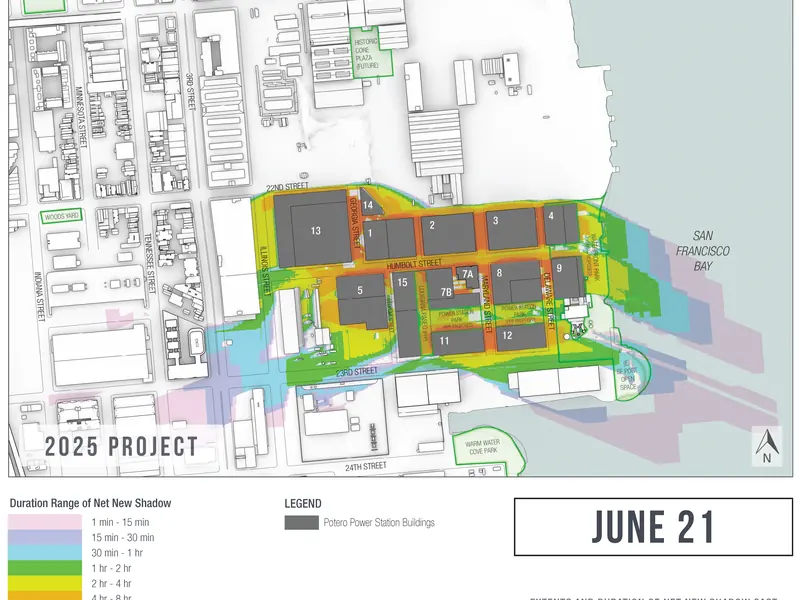
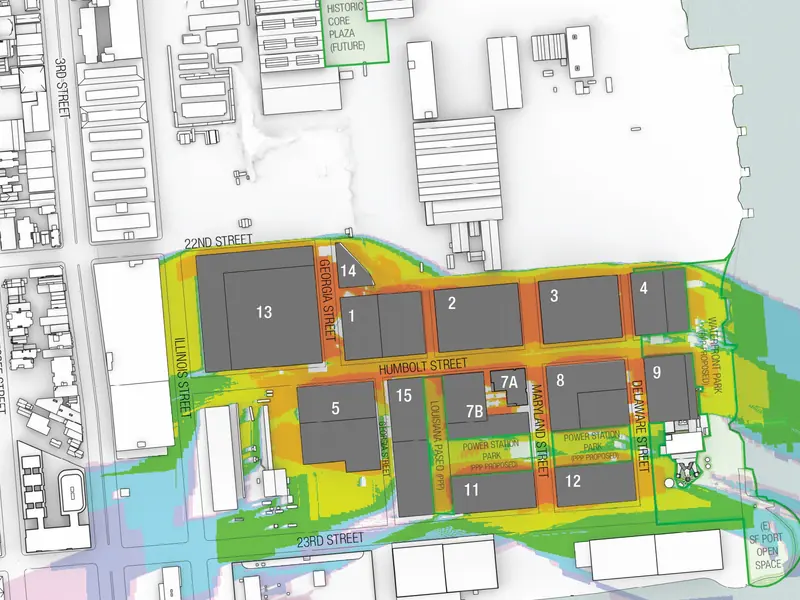
Featured Work fixes: mouseout, pair timing, video sizing, crops
Three slideshow bugs, all found while verifying:

- Leaving a card while a frame was still loading let the pending load callback
  show it and queue the next step, so the slideshow kept running after mouseout.
  Guarded with a live flag checked inside the callback. This is what Adam saw on
  Burlingame.
- mouseenter and focusin both fire when a card is clicked, starting a second
  chain of timers racing the first. start() now bails if already running.
- Each step built a fresh Image(), re-requesting the file and paying a
  revalidation round-trip per frame, which inflated every hold. The prefetched
  Image objects are reused and checked with .complete instead.

Old Bayshore's eight frames are four existing/proposed pairs, so they now run
1500ms on each existing view and 2500ms on each proposal via data-holds.

The video was laying out at its intrinsic 640x480 inside a 382x287 card and
being clipped to the top-left, which read as "only showing the left side" -
inset:0 does not stretch a replaced element, and .pc-frame was not picking up
the width/height that .project-card img gives the image layers. The encode crop
was centred all along.

Potrero's crop zooms past the legend and title block to the plan diagram, and
the discipline nudges move shadow down 11 more, shaping and visual studies 6.

diff --git a/website-mockups/option-b2-type-business/js/main.js b/website-mockups/option-b2-type-business/js/main.js
@@ -47,6 +47,10 @@ document.addEventListener('DOMContentLoaded', () => {
     const HOLD = 900;   // ms a frame is held
     const FADE = 500;   // ms cross-fade — keep in step with .pc-frame's transition
     const files = (card.dataset.frames || '').split(',').filter(Boolean);
+    // data-holds gives per-frame hold times where a project needs them — the
+    // Old Bayshore pairs run 1.5s on each existing view, 2.5s on each proposal
+    const holds = (card.dataset.holds || '').split(',')
+      .map((n) => parseInt(n, 10)).filter((n) => n > 0);
     const clip = card.dataset.video;
     const overlay = card.querySelector('.overlay');
     const still = card.querySelector('img');
@@ -56,6 +60,7 @@ document.addEventListener('DOMContentLoaded', () => {
     let stepTimer = null;
     let resetTimer = null;
     let prefetched = false;
+    let live = false;   // true only between mouseenter and mouseleave
 
     // an auto-cycling slideshow is exactly what reduced-motion asks us not to do
     const stillPlease = window.matchMedia('(prefers-reduced-motion: reduce)');
@@ -74,14 +79,28 @@ document.addEventListener('DOMContentLoaded', () => {
       return layers[i % 2];
     }
 
+    // One Image per frame, reused. A fresh Image() each step re-requests the
+    // file, and without cache headers that is a revalidation round-trip per
+    // frame — a fixed cost on top of every hold, which threw the timing out.
+    const warmed = new Map();
+    function warm(file) {
+      let img = warmed.get(file);
+      if (!img) { img = new Image(); img.src = WORK + file; warmed.set(file, img); }
+      return img;
+    }
+
     function step() {
       const el = layer(at);
       const under = layers[(at + 1) % 2];
-      const src = WORK + files[at % files.length];
-      const pre = new Image();
-      // wait for the bitmap so a layer is never revealed blank; after the first
-      // frame these are already warm from the prefetch, so the cadence holds
-      pre.onload = pre.onerror = () => {
+      const file = files[at % files.length];
+      const src = WORK + file;
+      const pre = warm(file);
+      // wait for the bitmap so a layer is never revealed blank
+      const reveal = () => {
+        // the pointer can leave while a frame is still loading; without this the
+        // callback would show it and queue the next step, and the slideshow would
+        // carry on running after mouseout
+        if (!live) return;
         el.src = src;
         // demote the outgoing layer NOW, not after the fade: while both sat at
         // the same z-index, DOM order decided the stack and the old frame could
@@ -92,14 +111,24 @@ document.addEventListener('DOMContentLoaded', () => {
         // it only goes transparent once it is covered, so its next turn
         // starts from 0 and actually cross-fades
         resetTimer = setTimeout(() => under.classList.remove('is-shown'), FADE);
+        const hold = holds.length ? holds[at % holds.length] : HOLD;
         at += 1;
-        stepTimer = setTimeout(step, HOLD);
+        stepTimer = setTimeout(step, hold);
       };
-      pre.src = src;
+      if (pre.complete) reveal();
+      else {
+        pre.addEventListener('load', reveal, { once: true });
+        pre.addEventListener('error', reveal, { once: true });
+      }
     }
 
     function start() {
       if (stillPlease.matches) return;
+      // mouseenter and focusin both fire when a card is clicked; without this a
+      // second chain of timers starts alongside the first and they race, each
+      // advancing the frame counter
+      if (live) return;
+      live = true;
       if (clip) {
         if (!video) {
           video = document.createElement('video');
@@ -117,17 +146,18 @@ document.addEventListener('DOMContentLoaded', () => {
         return;
       }
       if (!files.length) return;
-      // warm the whole set on the first hover so later steps keep to HOLD rather
-      // than stalling on a fetch; the browser caps its own parallelism
+      // warm the whole set on the first hover so later steps keep to their hold
+      // rather than stalling on a fetch; the browser caps its own parallelism
       if (!prefetched) {
         prefetched = true;
-        files.forEach((f) => { new Image().src = WORK + f; });
+        files.forEach(warm);
       }
       at = 0;
       step();
     }
 
     function stop() {
+      live = false;
       clearTimeout(stepTimer);
       clearTimeout(resetTimer);
       if (video) { video.classList.remove('is-shown'); video.pause(); }

diff --git a/website-mockups/option-b2-type-business/index.html b/website-mockups/option-b2-type-business/index.html
@@ -231,8 +231,11 @@
             </div>
           </div>
 
+          <!-- four existing/proposed pairs: odd frames are the existing view
+               (1.5s), even are the proposal (2.5s), per Adam -->
           <div class="project-card"
-            data-frames="ob-01.webp,ob-02.webp,ob-03.webp,ob-04.webp,ob-05.webp,ob-06.webp,ob-07.webp,ob-08.webp">
+            data-frames="ob-01.webp,ob-02.webp,ob-03.webp,ob-04.webp,ob-05.webp,ob-06.webp,ob-07.webp,ob-08.webp"
+            data-holds="1500,2500,1500,2500,1500,2500,1500,2500">
             <img src="../shared/images/work/ob-main.webp" alt="Visual simulation of the proposed Old Bayshore development" loading="lazy" decoding="async">
             <div class="overlay">
               <span class="badge badge-visual">Visual Simulation</span>

diff --git a/website-mockups/option-b2-type-business/css/styles.css b/website-mockups/option-b2-type-business/css/styles.css
@@ -505,9 +505,16 @@ section { padding: 72px 0; }
    so an incoming frame fades in on top while the outgoing one stays opaque
    underneath (the same no-dip trick as the hero). z-index is capped at 2 rather
    than climbing, so .overlay at 3 always stays above the imagery. */
+/* width/height are explicit because inset alone does NOT stretch a replaced
+   element — a <video> with auto sizing lays out at its intrinsic 640x480 and gets
+   clipped to the card's top-left corner, which reads as "only the left of the
+   frame". The img layers escaped this only by matching .project-card img. */
 .project-card .pc-frame {
   position: absolute;
   inset: 0;
+  width: 100%;
+  height: 100%;
+  object-fit: cover;
   opacity: 0;
   transition: opacity 0.5s ease, transform 0.4s;
 }

diff --git a/scripts/build-work-images.py b/scripts/build-work-images.py
@@ -26,15 +26,17 @@ MAX_FRAMES = 10
 Q_MAIN, Q_FRAME = 82, 76
 VIDEO_CRF = 27
 
-# folder -> (output stem, focus x, focus y). Focus is where the 4:3 crop centres,
-# in fractions of the master; the shadow sheets put their plume above centre.
+# folder -> (output stem, focus x, focus y, zoom). Focus is where the 4:3 crop
+# centres, in fractions of the master. Zoom < 1 crops in first — the shadow sheets
+# carry a legend strip and title block that are illegible at card size anyway, so
+# they are cropped away to leave just the plan diagram (Adam, 2026-07-28).
 PROJECTS = {
-    'shadow_Potrero Power Plant_San Francisco': ('ppp', 0.5, 0.44),
-    'daylighting_Foster City_California':       ('fc',  0.5, 0.50),
-    'sims_HousingElement_San Francisco':        ('he',  0.5, 0.50),
-    'sims_OldBayshore_Burlingame':              ('ob',  0.5, 0.52),
-    'sims_ValenciaStreet_San Francisco':        ('val', 0.5, 0.50),
-    'shadow shaper':                            ('ss',  0.5, 0.42),
+    'shadow_Potrero Power Plant_San Francisco': ('ppp', 0.50, 0.38, 0.62),
+    'daylighting_Foster City_California':       ('fc',  0.50, 0.50, 1.00),
+    'sims_HousingElement_San Francisco':        ('he',  0.50, 0.50, 1.00),
+    'sims_OldBayshore_Burlingame':              ('ob',  0.50, 0.52, 1.00),
+    'sims_ValenciaStreet_San Francisco':        ('val', 0.50, 0.50, 1.00),
+    'shadow shaper':                            ('ss',  0.50, 0.42, 1.00),
 }
 
 
@@ -47,8 +49,16 @@ def sample(frames):
     return [frames[i] for i in sorted(set(idx))]
 
 
-def render(path, dest, focus, quality):
+def render(path, dest, focus, quality, zoom=1.0):
     im = Image.open(path).convert('RGB')
+    if zoom < 1.0:
+        # take a window of the master around the focus point, then fit 4:3 to it
+        w, h = im.size
+        bw, bh = w * zoom, h * zoom
+        left = max(0, min(focus[0] * w - bw / 2, w - bw))
+        top = max(0, min(focus[1] * h - bh / 2, h - bh))
+        im = im.crop((round(left), round(top), round(left + bw), round(top + bh)))
+        focus = (0.5, 0.5)
     im = ImageOps.fit(im, CARD, Image.LANCZOS, centering=focus)
     im.save(dest, 'WEBP', quality=quality, method=6)
     return os.path.getsize(path), os.path.getsize(dest)
@@ -89,7 +99,7 @@ def main():
         if folder not in PROJECTS:
             print('%-46s SKIPPED — add it to PROJECTS to include it' % folder)
             continue
-        stem, fx, fy = PROJECTS[folder]
+        stem, fx, fy, zoom = PROJECTS[folder]
         focus = (fx, fy)
         pngs = sorted(glob.glob(os.path.join(path, '*.png')))
 
@@ -104,14 +114,14 @@ def main():
             print('%-46s SKIPPED — no main.png / *_main.png / poster.png' % folder)
             continue
 
-        si, so = render(mains[0], os.path.join(OUT, stem + '-main.webp'), focus, Q_MAIN)
+        si, so = render(mains[0], os.path.join(OUT, stem + '-main.webp'), focus, Q_MAIN, zoom)
         total_in += si
         total_out += so
 
         frames = [p for p in pngs if p not in mains]
         kept = sample(frames)
         for n, f in enumerate(kept, 1):
-            si, so = render(f, os.path.join(OUT, '%s-%02d.webp' % (stem, n)), focus, Q_FRAME)
+            si, so = render(f, os.path.join(OUT, '%s-%02d.webp' % (stem, n)), focus, Q_FRAME, zoom)
             total_in += si
             total_out += so
 

diff --git a/scripts/build-discipline-images.py b/scripts/build-discipline-images.py
@@ -44,10 +44,10 @@ CROPS = {
 # stem -> (dx, dy) in BANNER_CSS px: which way the visible content should move.
 # Positive dx is right, positive dy is down. Adam's review, 2026-07-28.
 NUDGE = {
-    'shadow-studies':   (-38, 31),
-    'shadow-shaping':   (0, 12),
+    'shadow-studies':   (-38, 42),   # +11 on review 2
+    'shadow-shaping':   (0, 18),     # +6
     'daylight-studies': (4, -9),
-    'visual-studies':   (0, 10),
+    'visual-studies':   (0, 16),     # +6
     'peer-review':      (0, 0),
 }
 

diff --git a/HANDOFF.md b/HANDOFF.md
@@ -193,9 +193,28 @@ Key facts a fresh session needs:
     instead of a cross-fade. That mp4 is cropped to 4:3 **at encode time**
     (`crop=ih*4/3:ih`) rather than letting CSS discard the sides — no sense
     spending bitrate on pixels the card never shows; 8.09 MB → 1.87 MB at CRF 27.
+  - **Potrero's crop zooms past the legend and title block** (`zoom` 0.62 in
+    PROJECTS, Adam 2026-07-28) — at card size that sheet furniture is illegible
+    anyway, so the card shows just the plan diagram.
   - Hover engine in main.js: frames are listed in `data-frames` and fetched only
     on first hover (eager markup for all 45 files would be megabytes nobody
-    asked for), then the whole set is warmed so the cadence holds at ~900 ms.
+    asked for), then the whole set is warmed so the cadence holds. Default hold
+    is 900 ms; `data-holds` overrides per frame, and **Old Bayshore runs
+    1500/2500** because its eight frames are four existing/proposed pairs (odd
+    frames existing, even proposed).
+  - Three bugs found in review, all fixed: (a) leaving the card while a frame was
+    still loading let the pending load callback show it and queue the next step,
+    so **the slideshow kept running after mouseout** — guarded with a `live` flag
+    checked inside the callback; (b) `mouseenter` and `focusin` both fire on a
+    click, starting a second chain of timers that raced the first — `start()` now
+    bails if already running; (c) each step created a fresh `Image()`, re-requesting
+    the file and paying a revalidation round-trip per frame, which inflated every
+    hold — the prefetched Image objects are now reused and checked via `.complete`.
+  - `.pc-frame` needs explicit `width/height: 100%`: `inset: 0` does **not**
+    stretch a replaced element, so the `<video>` laid out at its intrinsic
+    640×480 inside a 382×287 card and was clipped to the top-left corner — which
+    is what "the video is only showing the left side" was. The img layers dodged
+    it by matching `.project-card img`.
     Two alternating `.pc-frame` layers cross-fade with the incoming one on top,
     same no-dip trick as the hero. **The outgoing layer must be demoted to
     z-index 1 immediately, not after the fade** — while both sat at 2, DOM order
